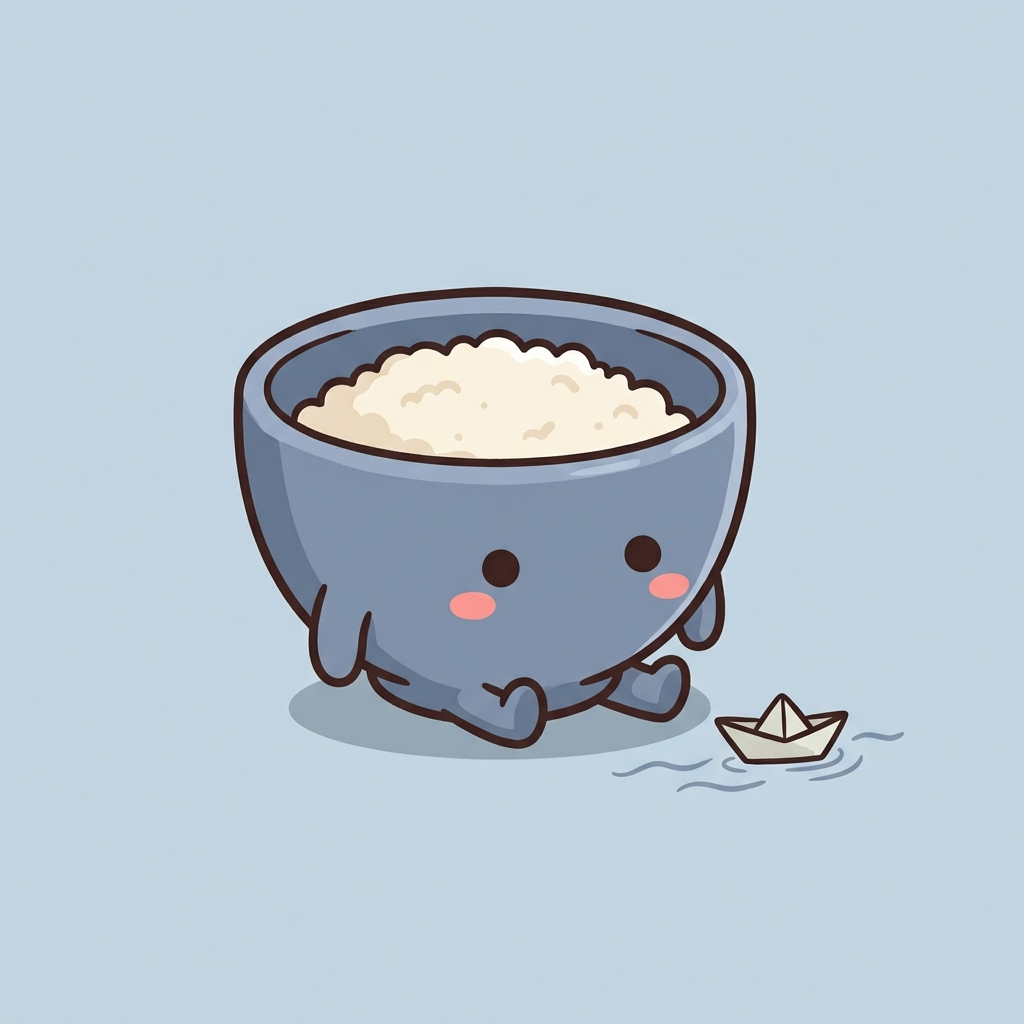
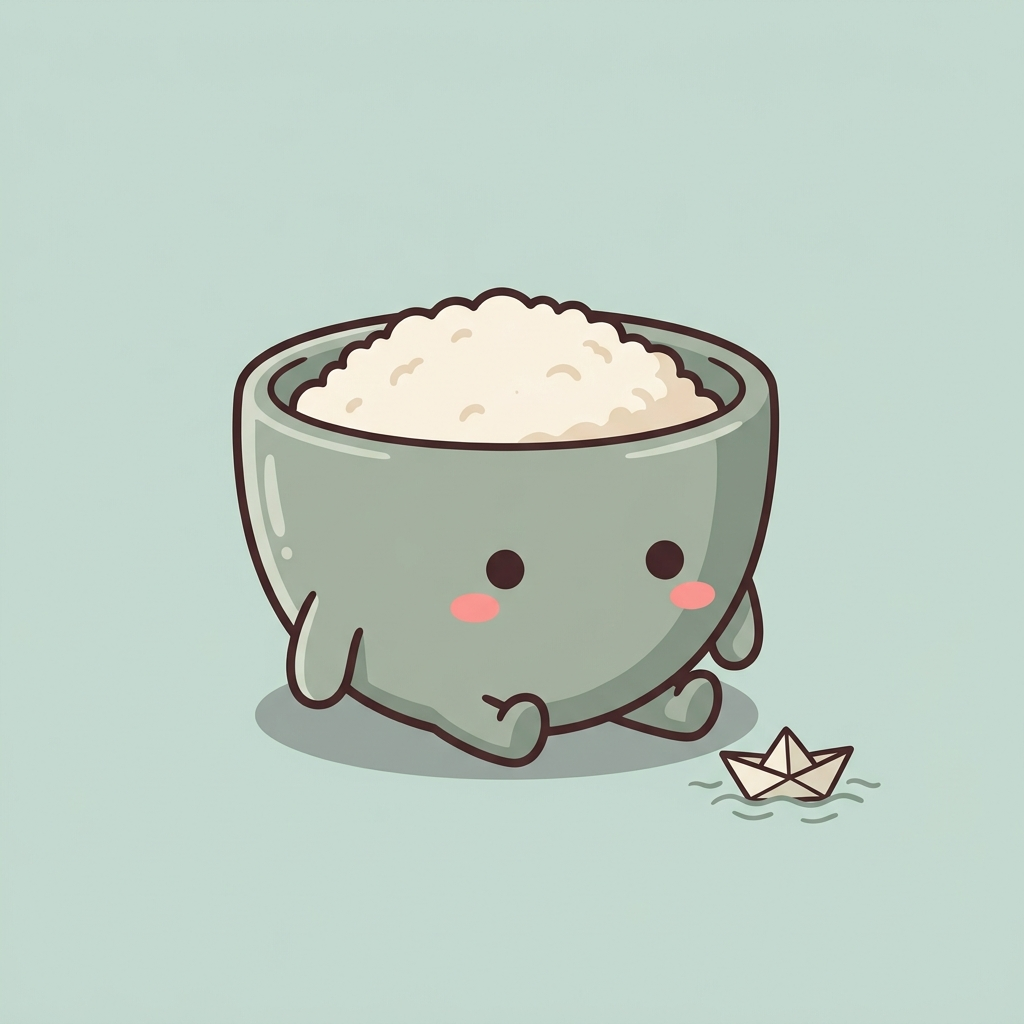
auto-commit for 604bf48b-cc28-4aa3-a09d-67c1a94874ea

Changed region(s): [[0.2188, 0.2812, 0.875, 0.8125]]

diff --git a/frontend/src/constants/emotions.ts b/frontend/src/constants/emotions.ts
@@ -29,6 +29,8 @@ export const EMOTION_IMAGES: Record<string, any> = {
   insecure: require('../../assets/emotions/insecure.png'),
   frustrated: require('../../assets/emotions/frustrated.png'),
   angry: require('../../assets/emotions/angry.png'),
+  irritable: require('../../assets/emotions/irritable.png'),
+  trapped: require('../../assets/emotions/trapped.png'),
   worthless: require('../../assets/emotions/worthless.png'),
   unloved: require('../../assets/emotions/unloved.png'),
   unappreciated: require('../../assets/emotions/unappreciated.png'),
@@ -65,9 +67,11 @@ export const EMOTIONS: Emotion[] = [
 
   // Nervous / tense
   { key: 'restless', label: '心煩', description: '坐唔定 靜唔到', color: '#FFDEAD', image: EMOTION_IMAGES.restless },
+  { key: 'irritable', label: '煩躁', description: '個火開始上湧', color: '#FFB088', image: EMOTION_IMAGES.irritable },
   { key: 'anxious', label: '焦慮', description: '好似有啲嘢唔妥', color: '#FFD6A5', image: EMOTION_IMAGES.anxious },
   { key: 'worried', label: '擔心', description: '諗嘢停唔到', color: '#FFE4B5', image: EMOTION_IMAGES.worried },
   { key: 'overwhelmed', label: '透唔到氣', description: '好多嘢一齊嚟', color: '#E8A598', image: EMOTION_IMAGES.overwhelmed },
+  { key: 'trapped', label: '被困', description: '好似逃唔到出去', color: '#7FB3C8', image: EMOTION_IMAGES.trapped },
 
   // Self-worth wounds  ⚠ often central for depression
   { key: 'worthless', label: '冇價值', description: '覺得自己毫無價值', color: '#C7CEEA', image: EMOTION_IMAGES.worthless },

diff --git a/backend/generate_emotion_icons.py b/backend/generate_emotion_icons.py
@@ -1,12 +1,12 @@
 """Regenerate the emotion mascot family.
 
-Every icon shares the same underlying rice-bowl character (chubby ceramic
+Each icon shares the same underlying rice-bowl character (chubby ceramic
 bowl of rice with tiny stubby arms & legs, dot eyes, blush cheeks) so the
-set stays a coherent family, but the bowl color and rice amount now vary
-per emotion so each mascot has its own personality — perfect for stickers
-and merch.
+set stays a coherent family, but the bowl color, rice amount and props
+vary per emotion so every mascot has its own personality — ready for merch.
 
 Run: `python /app/backend/generate_emotion_icons.py`
+Script skips PNGs that already exist. Delete a file to regenerate just it.
 """
 from __future__ import annotations
 
@@ -60,9 +60,11 @@ EMOTIONS = [
     ("content",      "warm terracotta orange",          RICE_FULL,
      "showing a gentle satisfied closed-eye smile, a small curl of white steam rising from the rice",
      "sage green"),
-    ("grateful",     "soft blush pink",                 RICE_FULL,
-     "showing a soft smile with both tiny hands pressed together in a thank-you gesture, tiny pink sparkle dots floating around",
-     "warm blush pink"),
+    # grateful — heart-shaped bowl, hands pressed together
+    ("grateful",     "soft blush pink (the entire bowl is shaped like a heart with a pointed bottom and two rounded lobes on top)",
+     RICE_FULL,
+     "showing a soft smile with both tiny hands pressed together in a thank-you gesture, tiny pink sparkle dots and one small heart floating around",
+     "warm rose pink"),
     ("hopeful",      "pale morning blue",               RICE_FULL,
      "showing a hopeful upward gaze and gentle smile, a tiny sunshine peeking from behind the top of the bowl with soft rays",
      "pale sky blue"),
@@ -72,43 +74,58 @@ EMOTIONS = [
     ("peaceful",     "soft lavender purple",            RICE_FULL,
      "sleeping softly with a small sleepy smile and a tiny snore bubble, a small crescent moon and one tiny star floating beside it",
      "misty lavender"),
-    ("loved",        "rose pink",                       RICE_HEAP,
-     "with a small heart-shaped smiling mouth, extra pink blushing cheeks, three tiny pink hearts floating around the bowl",
+    # loved — TWO heart-shaped bowls holding hands
+    ("loved",        "rose pink (both bowls are shaped like hearts with pointed bottoms and rounded lobes)",
+     RICE_HEAP,
+     "actually drawn as TWO identical heart-shaped rice-bowl mascots standing side by side holding each other's tiny stubby hands, both with small heart-shaped smiling mouths and blushing cheeks, three tiny floating pink hearts between them",
      "cotton candy pink"),
     ("proud",        "shiny gold",                      RICE_HEAP,
      "with a confident wide grin, one little arm raised holding a tiny golden star, a tiny sparkle above its head",
      "buttery cream"),
 
     # ---- Sadness / low energy ----
-    ("sad",          "dusty muted blue",                RICE_HALF,
-     "with a small downturned mouth and one big shiny teardrop under one eye, a tiny grey raincloud floating above the bowl with a couple of raindrops",
+    # sad — heart-shaped bowl with a visible crack + teardrop
+    ("sad",          "deep dusty blue (the entire bowl is shaped like a heart with a jagged CRACK line running down the middle of the heart)",
+     RICE_HALF,
+     "with a small downturned mouth and one big shiny teardrop under one eye; the heart-shaped bowl has an obvious dark crack line across it",
      "powder blue"),
-    ("lonely",       "faded slate blue",                RICE_HALF,
+    # lonely — round bowl, distinct dusty green-grey to differ from sad
+    ("lonely",       "muted sage grey-green",           RICE_HALF,
      "sitting with arms lowered and looking sideways with a lonely quiet expression, a tiny paper boat floating on gentle wavy lines next to the bowl",
-     "hazy pale blue"),
+     "misty pale seafoam"),
     ("empty",        "bone white cream",                RICE_TINY,
      "with a completely blank flat straight-line mouth and simple dot eyes, no accessories, the rice inside is almost gone",
      "warm ivory cream"),
     ("numb",         "muted stone grey",                RICE_LOW,
      "with half-closed sleepy tired eyes and a straight flat mouth, one tiny grey wispy cloud drifting around it",
      "dove grey"),
-    ("exhausted",    "washed-out mauve",                RICE_LOW,
-     "with two X-shaped closed eyes and a small tired open mouth, both little arms drooping down, a tiny sweat drop and a small puff of steam floating up",
+    # exhausted — bowl LYING DOWN on its side sleeping
+    ("exhausted",    "washed-out mauve purple",         RICE_LOW,
+     "shown LYING DOWN on its side sideways on the ground as if collapsed asleep, both little arms and legs relaxed limply, eyes closed with two X shapes, a small Z Z Z sleep symbol above its head; some rice grains gently spilled out around it",
      "soft lilac"),
 
     # ---- Nervous / tense ----
     ("restless",     "warm peach",                      RICE_FULL,
      "with wide alert eyes, a small worried o-shaped mouth, tiny motion swirls and wobble lines around the bowl as if it cannot sit still",
      "peach cream"),
+    # NEW: irritable — chili on head, BIGGER chili, red steam
+    ("irritable",    "burnt sienna orange",             RICE_FULL,
+     "with an irritable frown and slightly furrowed brows, a LARGE bright red chili pepper the size of half the bowl balanced on top of the rice, small red steam puffs rising from around the chili",
+     "warm salmon orange"),
     ("anxious",      "pale butter yellow",              RICE_FULL,
      "with worried curved eyebrows, small dot eyes looking sideways, one big sweat drop on the side of the bowl, a couple of tiny nervous squiggle marks around the head",
      "buttermilk yellow"),
     ("worried",      "warm oatmeal beige",              RICE_FULL,
      "with slightly furrowed brows and a small frown, one tiny arm raised touching the side of the bowl as if thinking anxiously",
      "oatmeal beige"),
+    # overwhelmed — BIG stones piled on top (not blocks)
     ("overwhelmed",  "muted coral",                     RICE_HEAP,
-     "with a slightly overwhelmed dizzy expression (small spirals in the eyes), a tall wobbly stack of three tiny colored blocks balanced on top of the heaping rice",
-     "muted coral"),
+     "with a strained overwhelmed expression, small spirals in the eyes and a tiny grimace; balancing a wobbling stack of THREE BIG rounded grey pebble stones (each stone almost as tall as the bowl itself) piled precariously on top of its head",
+     "muted salmon"),
+    # NEW: trapped — inside a small birdcage with vertical bars
+    ("trapped",      "cool teal blue",                  RICE_HALF,
+     "sitting INSIDE a small round metal birdcage with clear vertical dark grey bars around the character (bars must be visible in front of and behind the bowl); with a small sad worried expression, one tiny hand gripping one of the bars",
+     "soft grey blue"),
 
     # ---- Self-worth wounds ----
     ("worthless",    "dull periwinkle grey-blue",       RICE_TINY,
@@ -120,17 +137,20 @@ EMOTIONS = [
     ("unloved",      "faded dusty rose",                RICE_LOW,
      "sitting with head slightly lowered and eyes downcast, holding a tiny grey cracked/broken heart in its two little hands",
      "dusty rose"),
+    # unappreciated — main bowl + a SECOND bowl looking away in background
     ("unappreciated","pale lilac",                      RICE_FULL,
-     "holding up a tiny gold star / medal in its hand but the head is turned sideways as if no one is looking, a small sigh dot above the head",
+     "holding up a tiny gold medal star in its little raised hand hoping to be noticed; a SECOND smaller identical rice-bowl mascot stands in the background clearly TURNED AWAY facing the other direction, ignoring the main character; a small sad sigh dot above the main character's head",
      "pale lilac"),
     ("disrespected", "warm terracotta peach",           RICE_HALF,
      "with eyes looking a bit down and slightly furrowed brows, one tiny arm crossed defensively over its front, a tiny downward arrow behind it",
      "warm peach"),
-    ("invisible",    "ghost pale blue-grey (very translucent)", RICE_LOW,
-     "drawn semi-transparent and ghost-like with a very faint outline, a small quiet sad expression",
+    # invisible — sitting looking down at own toes
+    ("invisible",    "ghost pale blue-grey (very translucent, semi see-through)", RICE_LOW,
+     "shown drawn semi-transparent and ghost-like with a very faint outline; sitting on the ground cross-legged, head bowed low looking straight down at its own tiny stubby toes, a small quiet resigned expression",
      "cool grey blue"),
+    # rejected — big red X across the bowl
     ("rejected",     "warm apricot orange",             RICE_HALF,
-     "turned slightly away with a small sad expression, a tiny closed door with a small X mark nearby",
+     "with a small sad expression; a LARGE bold bright red X mark drawn diagonally right across the front of the bowl covering most of it, like a stamp of rejection",
      "warm apricot"),
     ("abandoned",    "faded teal blue",                 RICE_LOW,
      "sitting alone on the ground with tiny footprints of another character walking away in the background",
@@ -149,20 +169,24 @@ EMOTIONS = [
      "storm grey"),
 
     # ---- Anger / intense ----
-    ("frustrated",   "warm brick red",                  RICE_FULL,
-     "with puffed slightly red cheeks, a small pouty frown, both tiny hands on its hips, a small angry cross mark near its head",
+    # frustrated — new: arms crossed, sighing steam, muted grey-brown bowl
+    ("frustrated",   "muted taupe grey-brown",          RICE_LOW,
+     "with both little arms crossed firmly across its front, a small tired sighing mouth and half-lidded eyes, a small grey deflated cloud sigh puff drifting up from its head; the whole mascot slumped slightly forward",
+     "warm sandy beige"),
+    # angry — puffed red cheeks + hands on hips + frown
+    ("angry",        "bright hot red",                  RICE_FULL,
+     "with puffed slightly red cheeks, a small pouty grumpy frown, both tiny hands firmly on its hips like it is upset; a couple of small red anger cross marks and tiny steam puffs from the sides of its head",
      "warm blush red"),
-    ("angry",        "bright red",                      RICE_HEAP,
-     "with angry v-shaped eyebrows and a tiny grumpy frown, a small red steam puff rising from the top of the rice, a small red chili pepper resting on top of the rice",
-     "soft warm rose"),
     ("furious",      "fiery scarlet red",               RICE_HEAP,
-     "with fiery angry v-shaped eyebrows and a wide open shouting mouth, both little arms raised in the air clenched, a large red steam explosion and a small fire flame bursting from the top of the rice",
+     "with fiery angry v-shaped eyebrows and a wide open shouting mouth, both little arms raised in the air clenched, a large red steam explosion and a small orange fire flame bursting from the top of the rice",
      "warm coral"),
     ("in-pain",      "deep muted rose",                 RICE_LOW,
      "hugging itself with both tiny arms crossed tight over its front, tears welling up in both eyes and a small wincing pained mouth, a small white bandage on the side of the bowl",
      "muted rose"),
-    ("in-agony",     "dark dusty plum",                 RICE_TINY,
-     "with tightly shut eyes and a small trembling wide-open mouth as if crying silently, a heavy dark grey cloud with tiny lightning zigzags above its head, tears streaming down its cheeks",
+    # in-agony — FRYING PAN with rice being pan-fried, fire underneath
+    ("in-agony",     "black cast-iron frying pan with a wooden handle sticking out to the side (NOT a ceramic bowl this time — a shallow FRYING PAN skillet)",
+     "with a small pile of rice being fried inside the pan (not filled like a bowl)",
+     "the frying-pan mascot has two round dot eyes, small blush cheeks, and a suffering tightly shut eyes and open trembling silent-scream mouth; several bright orange and yellow FIRE flames dancing directly UNDERNEATH the pan; a couple of tiny sweat drops around its head",
      "dusty plum"),
 ]
 
